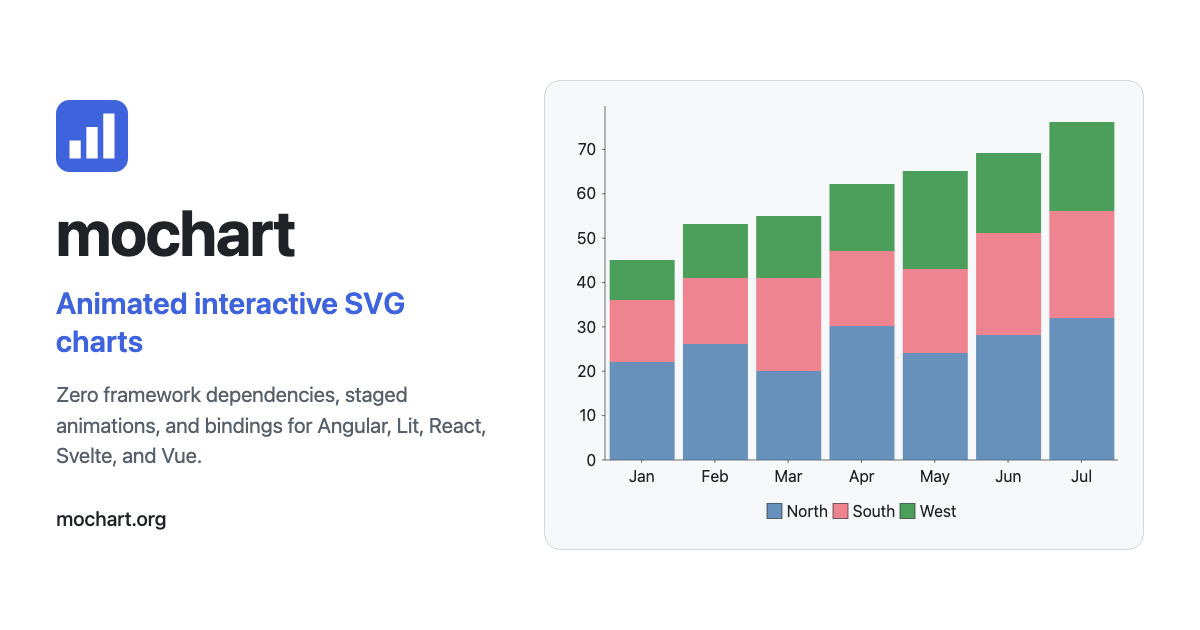
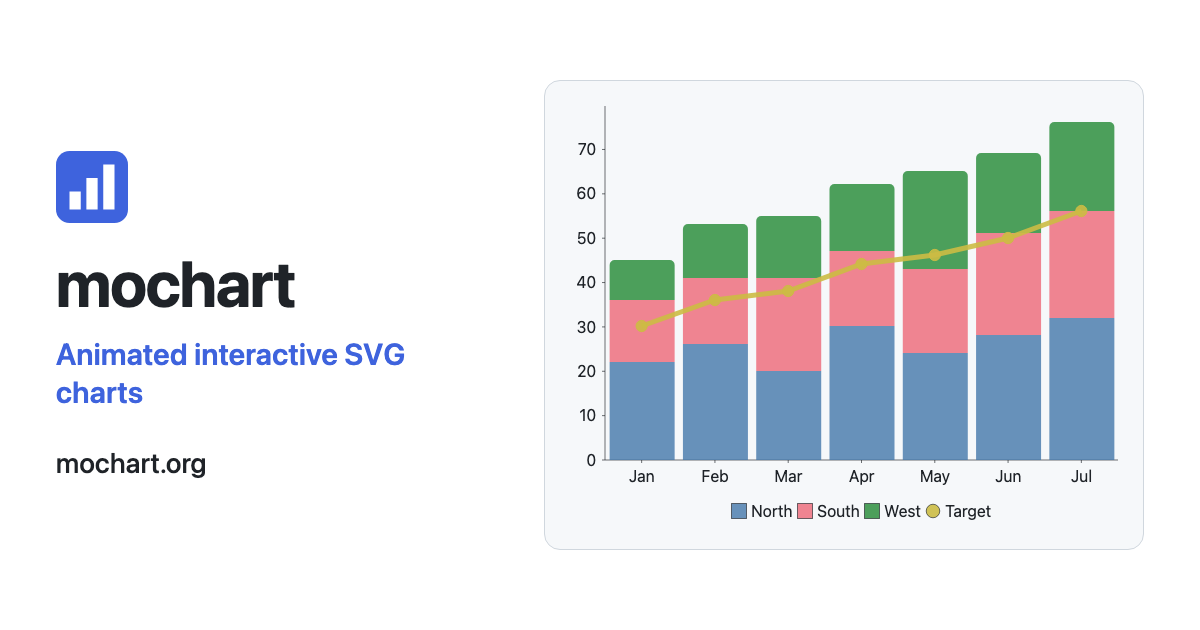
give the stacked README scene round outer caps and a target line series, drop the unreadable tagline from the social card, render the scene's settled data in card.html, and re-render og-image.png

diff --git a/scripts/og-image/card.html b/scripts/og-image/card.html
@@ -16,8 +16,7 @@
     .mark { width: 72px; height: 72px; display: block; }
     .name { margin: 28px 0 0; font-size: 64px; font-weight: 700; line-height: 1; letter-spacing: -0.02em; }
     .text { margin: 20px 0 0; font-size: 30px; font-weight: 600; line-height: 1.25; color: #3e63dd; }
-    .tagline { margin: 20px 0 0; font-size: 21px; line-height: 1.45; color: #57606a; }
-    .site { margin: 36px 0 0; font-size: 20px; font-weight: 500; color: #1f2328; }
+    .site { margin: 36px 0 0; font-size: 28px; font-weight: 500; color: #1f2328; }
     .panel {
       flex: 1; height: 470px;
       background: #f6f8fa; border: 1px solid #d0d7de; border-radius: 16px;
@@ -36,7 +35,6 @@
     </svg>
     <h1 class="name">mochart</h1>
     <p class="text">Animated interactive SVG charts</p>
-    <p class="tagline">Zero framework dependencies, staged animations, and bindings for Angular, Lit, React, Svelte, and Vue.</p>
     <p class="site">mochart.org</p>
   </div>
   <div class="panel"><div id="chart"></div></div>
@@ -44,11 +42,9 @@
     import { createChart, enhanceConfig, ArrayOfObjectsDataProvider } from '/packages/mochart/dist/mochart.js';
     import { scenes } from '../readme-gif/scenes.mjs';
 
-    // The stacked README scene's colours and axes, settled on its seven-category data.
+    // The stacked README scene, held still on the state its recording settles at.
     const { title: _title, ...config } = scenes.stacked.config('light');
-    const months = ['Jan', 'Feb', 'Mar', 'Apr', 'May', 'Jun', 'Jul'];
-    const values = [[22, 14, 9], [26, 15, 12], [20, 21, 14], [30, 17, 15], [24, 19, 22], [28, 23, 18], [32, 24, 20]];
-    const data = values.map(([north, south, west], index) => ({ month: months[index], north, south, west }));
+    const data = scenes.stacked.settledData;
 
     const element = document.getElementById('chart');
     await document.fonts.ready;

diff --git a/scripts/og-image/README.md b/scripts/og-image/README.md
@@ -1,9 +1,9 @@
 # Social preview card
 
-Produces `packages/mochart-docs/public/og-image.png`, the image the docs site's `og:image` meta tag
-points at, so links to mochart.org unfurl with a card on Slack, Discord, Bluesky, X, iMessage and
-WhatsApp. `card.html` lays out the mark, the name, the home page hero text and tagline, and a live
-stacked bar chart drawn by the built `@mochart/core` bundle; `capture.mjs` opens it in Chromium with
+Produces `packages/mochart-docs/public/og-image.png`, the image every page's `og:image` meta tag points
+at, the docs pages and the demo galleries alike, so links to mochart.org unfurl with a card on Slack,
+Discord, Bluesky, X, iMessage and WhatsApp. `card.html` lays out the mark, the name, the home page hero
+text and a still of the stacked README scene drawn by the built `@mochart/core` bundle; `capture.mjs` opens it in Chromium with
 Playwright and screenshots it at 1200x630, the size those platforms recommend.
 
 ```bash
@@ -11,6 +11,6 @@ npm run og:image                 # writes packages/mochart-docs/public/og-image.
 npm run og:image -- out/card.png # writes somewhere else
 ```
 
-Rerun it when the mark, the hero wording in `packages/mochart-docs/index.md`, or the chart's default
-look changes, and commit the new PNG. The card is captured on the machine that runs it, so its text
+Rerun it when the mark, the hero wording in `packages/mochart-docs/index.md`, the stacked scene in
+`scripts/readme-gif/scenes.mjs`, or the chart's default look changes, and commit the new PNG. The card is captured on the machine that runs it, so its text
 uses that machine's system font. Keep the file under 300 KB: WhatsApp skips larger images.
